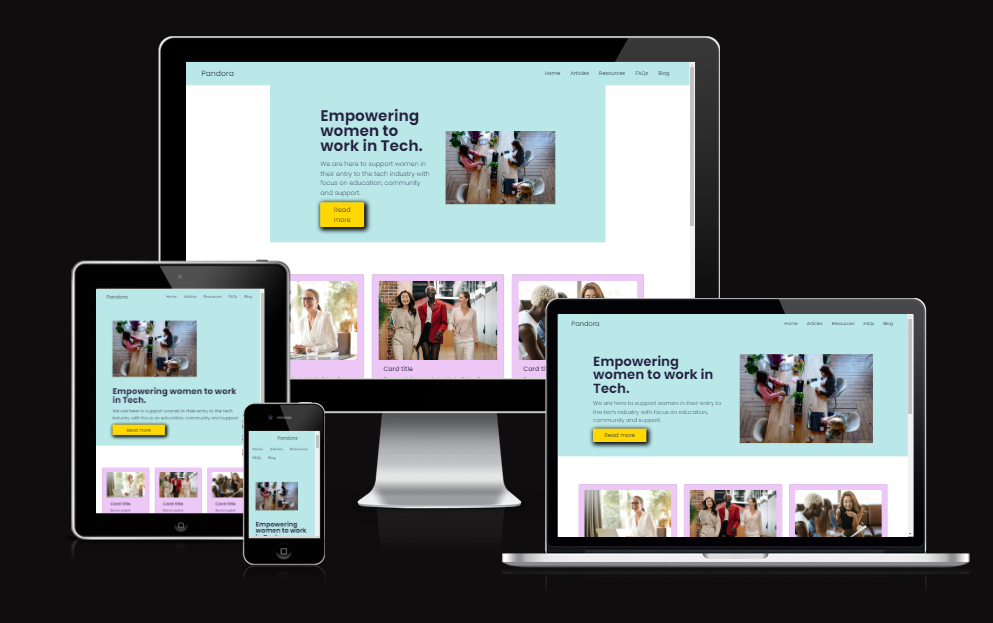
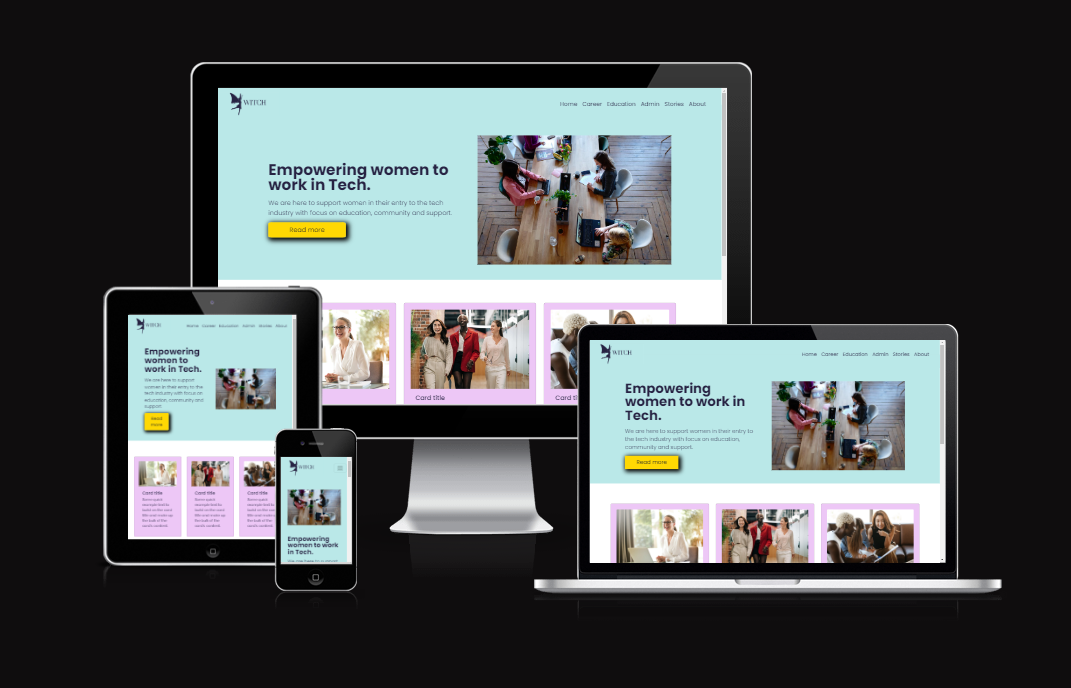
Add features folder to readme folder, add feature images

diff --git a/witch/settings.py b/witch/settings.py
@@ -19,7 +19,7 @@ DEBUG = env('DEBUG')
 
 ALLOWED_HOSTS = ['*']
 
-CSRF_TRUSTED_ORIGINS = ['https://8000-arronbeale-gendergap202-8pkvqt0se3d.ws-eu63.gitpod.io', 'https://www.heroku.com/']
+CSRF_TRUSTED_ORIGINS = ['https://8000-arronbeale-gendergap202-8pkvqt0se3d.ws-eu64.gitpod.io', 'https://www.heroku.com/']
 
 # Application definition
 

diff --git a/README.md b/README.md
@@ -1,11 +1,11 @@
-# PandoraTech
+# WITCH
 
 
 ![cover image](readme/image-am-i-responsive.PNG)  
 
 Developers: Andrew, Arron, Dee, Jamie, Martin
 
-[Deployed Site]()  
+[Deployed Site](https://witch-kodefox.herokuapp.com/)  
 (Note: Ctrl + click to open in a new tab)    
 
 
@@ -97,12 +97,13 @@ Developers: Andrew, Arron, Dee, Jamie, Martin
 </details>  
 
 
-
 ### Wireframes
 
 <details><summary>Home & Article Page</summary>
 <img src="readme/image-wireframe.png">
-</details>
+</details>  
+
+
 
    
 ## Technologies Used
@@ -121,6 +122,8 @@ Developers: Andrew, Arron, Dee, Jamie, Martin
 
 
 ### Frameworks and Tools
+- [Bootstrap](https://getbootstrap.com//)
+
 - [Balsamiq](https://balsamiq.com/)
 
 - [GitPod](https://gitpod.io/)
@@ -136,41 +139,26 @@ Developers: Andrew, Arron, Dee, Jamie, Martin
 - [Date time](https://docs.python.org/3/library/datetime.html)
 - [Unittest](https://docs.python.org/3/library/unittest.html)
 
-#### Third Party Libraries
-- 
-- 
 
 ## Features
-
-### Blog
-- A blog with various articles on Tech related careers
-- User stories covered:
-<details><summary>Image</summary>
+  
+<details><summary>Home</summary>
+<img src="/readme/image-feature-home.PNG">
+</details>  
+  
+<details><summary>Stories</summary>
 <img src="">
 </details>  
-
-
-### Educational Section
-- A page with various educational information
-- User stories covered:
-<details><summary>Image</summary>
+  
+<details><summary>Career</summary>
 <img src="">
 </details>  
-
-
-### Careers Section
-- A page with information on career paths
-- User stories covered:
-<details><summary>Image
-</summary>
+  
+<details><summary>Education</summary>
 <img src="">
 </details>  
-
-
-### About Section
-- A page about the development team
-- User stories covered:
-<details><summary>Image</summary>
+  
+<details><summary>About</summary>
 <img src="">
 </details>  
  
@@ -211,6 +199,7 @@ Developers: Andrew, Arron, Dee, Jamie, Martin
 <img src="">
 <img src="">
 </details>
+</details>
 
 
 
@@ -238,7 +227,7 @@ Site Owner
 
 <img src="">
 
-- Test ran and passed with the correct email format submitted for the test.
+- Test results....
 
 <img src="">
 
@@ -311,9 +300,8 @@ You can clone the repository by following these steps:
 
 
 ### Media
-- [Flaticon](https://www.flaticon.com/free-icon/physics_4270905?term=nuclear&page=1&position=16&page=1&position=16&related_id=4270905&origin=search): Nuclear icons created by Freepik - Flaticon</a>
-- [Background image](https://www.freepik.com/vectors/fluffy-clouds) 
-created by pch.vector - www.freepik.com</a>
+- [Favicon](https://favicon.io/): Witch Icon</a>
+- [Card Images](https://www.pexels.com/)</a>
 
 ### Code
 - [Site](https://www.google.com)
